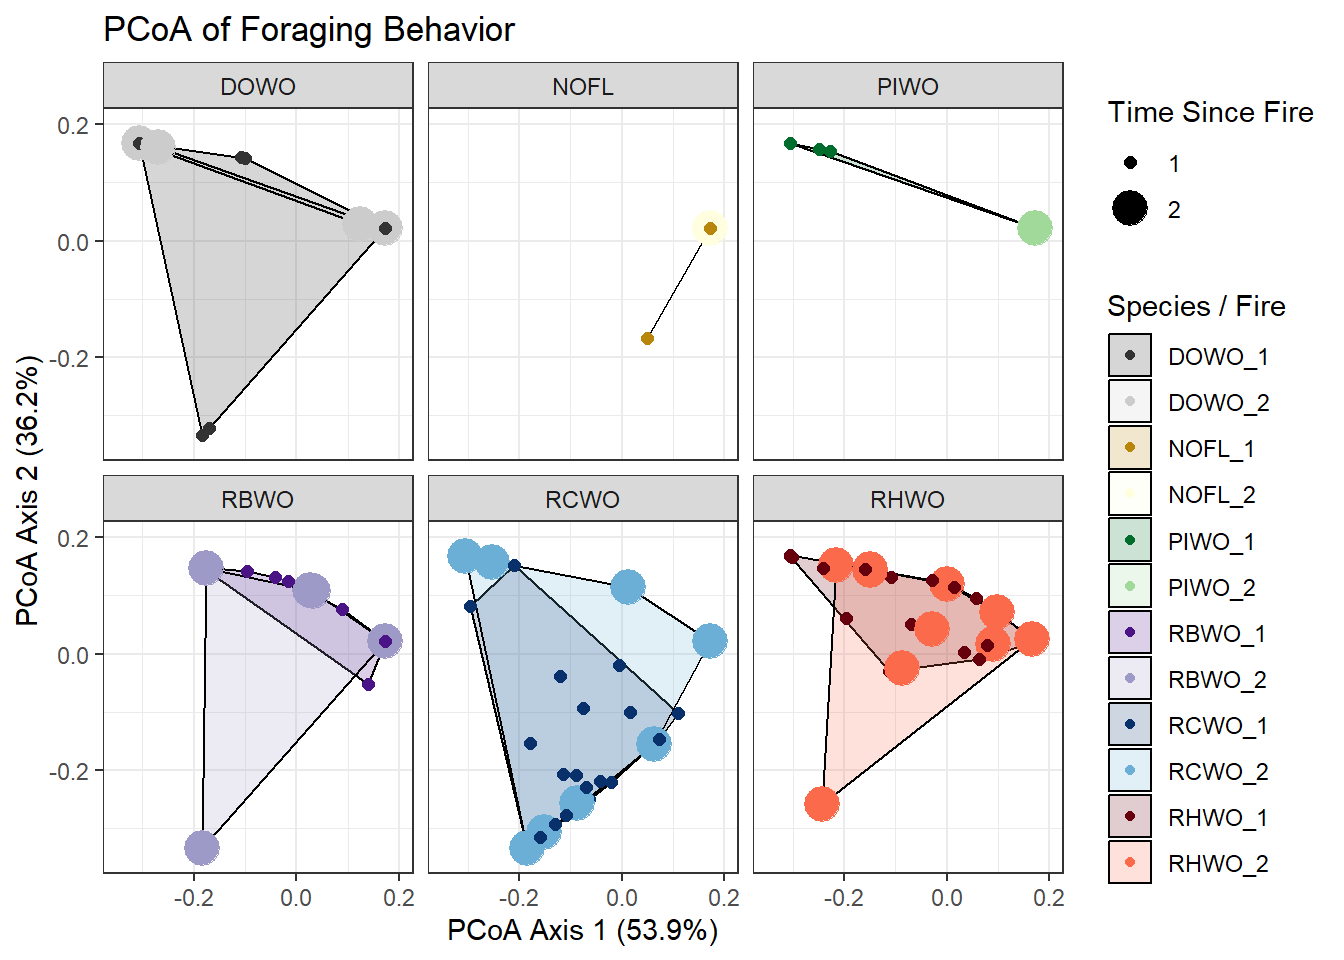
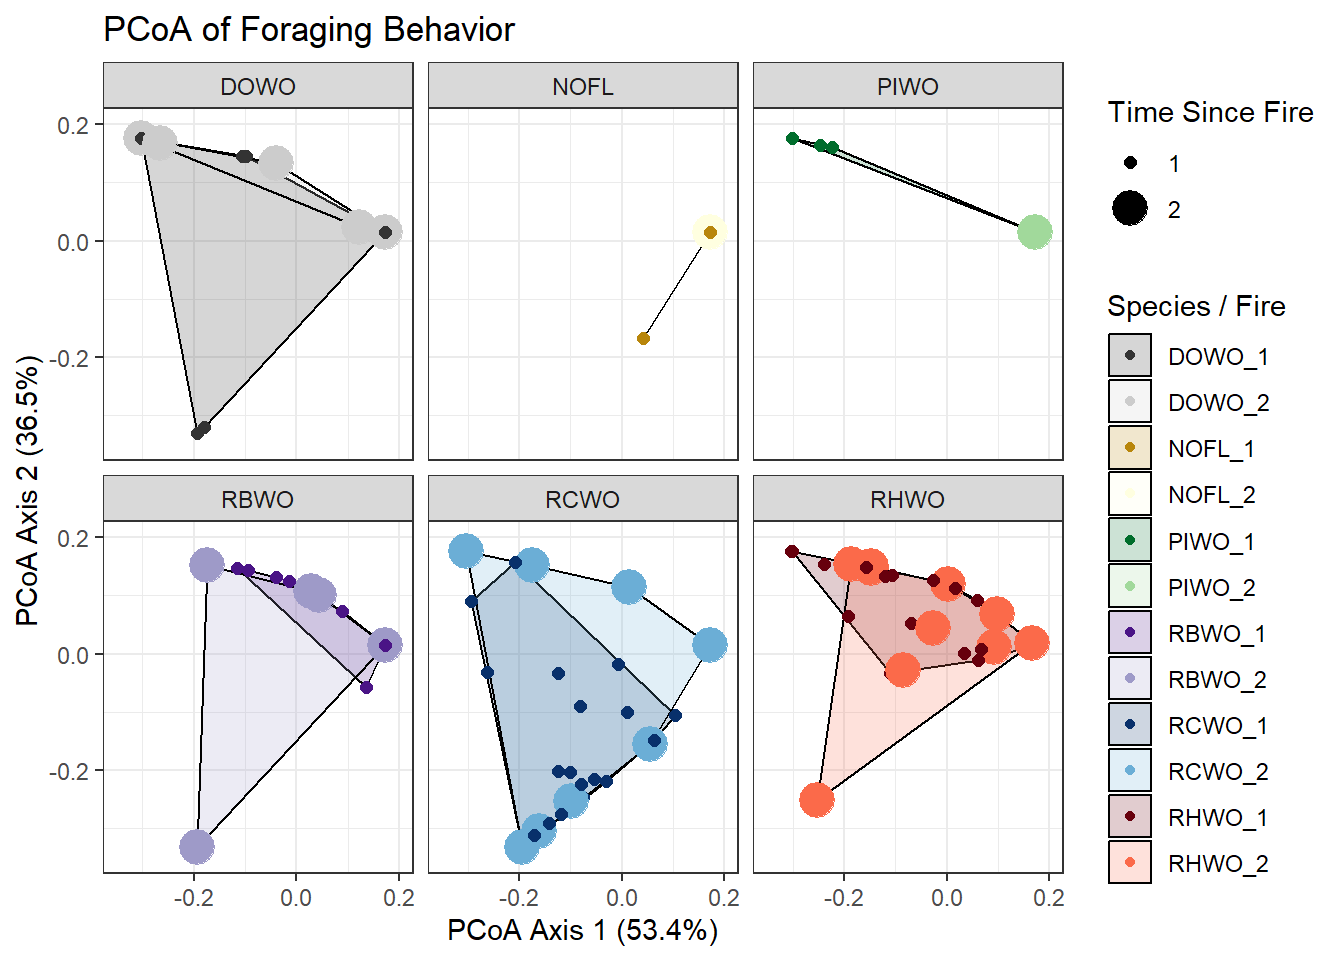
re-worked point count model. updated foraging obs

diff --git a/docs/woodpecker_obs.html b/docs/woodpecker_obs.html
@@ -296,7 +296,7 @@ Table: July observations by species and plot
 <h1>August Observations</h1>
 <div class="cell">
 <div class="cell-output cell-output-stdout">
-<pre><code>Plot(s) with no observations include:  1, 2, 4, 5, 8, 9, 11, 16, 17, 18, 19, 20, 21, 22, 23, 25, 28, 30, 31</code></pre>
+<pre><code>Plot(s) with no observations include:  1, 2, 5, 8, 9, 11, 16, 17, 18, 19, 28, 30, 31</code></pre>
 </div>
 </div>
 <div class="cell">
@@ -307,11 +307,12 @@ Table: August observations by species and plot
 
 |Species |  1|  2|  3|  4|  5|  6|  7|  8|  9| 10| 11| 12| 13| 14| 15| 16| 17| 18| 19| 20| 21| 22| 23| 24| 25| 26| 27| 28| 29| 30| 31| 32|
 |:-------|--:|--:|--:|--:|--:|--:|--:|--:|--:|--:|--:|--:|--:|--:|--:|--:|--:|--:|--:|--:|--:|--:|--:|--:|--:|--:|--:|--:|--:|--:|--:|--:|
-|DOWO    |  0|  0|  0|  0|  0|  0|  0|  0|  0|  0|  0|  1|  0|  0|  1|  0|  0|  0|  0|  0|  0|  0|  0|  0|  0|  0|  0|  0|  0|  0|  0|  0|
-|PIWO    |  0|  0|  0|  0|  0|  0|  0|  0|  0|  0|  0|  0|  0|  0|  0|  0|  0|  0|  0|  0|  0|  0|  0|  0|  0|  0|  1|  0|  0|  0|  0|  0|
-|RBWO    |  0|  0|  0|  0|  0|  0|  0|  0|  0|  0|  0|  2|  0|  1|  0|  0|  0|  0|  0|  0|  0|  0|  0|  1|  0|  0|  0|  0|  0|  0|  0|  0|
-|RCWO    |  0|  0|  1|  0|  0|  0|  1|  0|  0|  1|  0|  1|  2|  0|  1|  0|  0|  0|  0|  0|  0|  0|  0|  1|  0|  0|  1|  0|  0|  0|  0|  1|
-|RHWO    |  0|  0|  1|  0|  0|  1|  0|  0|  0|  0|  0|  0|  0|  0|  2|  0|  0|  0|  0|  0|  0|  0|  0|  0|  0|  1|  1|  0|  1|  0|  0|  0|</code></pre>
+|DOWO    |  0|  0|  0|  0|  0|  0|  0|  0|  0|  0|  0|  1|  0|  0|  1|  0|  0|  0|  0|  0|  1|  0|  2|  0|  0|  0|  0|  0|  0|  0|  0|  0|
+|HAWO    |  0|  0|  0|  0|  0|  0|  0|  0|  0|  0|  0|  0|  0|  0|  0|  0|  0|  0|  0|  0|  0|  0|  0|  0|  1|  0|  0|  0|  0|  0|  0|  0|
+|PIWO    |  0|  0|  0|  0|  0|  0|  0|  0|  0|  0|  0|  0|  0|  0|  0|  0|  0|  0|  0|  2|  1|  0|  0|  0|  0|  0|  1|  0|  0|  0|  0|  0|
+|RBWO    |  0|  0|  0|  0|  0|  0|  0|  0|  0|  0|  0|  2|  0|  1|  0|  0|  0|  0|  0|  1|  1|  1|  1|  1|  0|  0|  0|  0|  0|  0|  0|  0|
+|RCWO    |  0|  0|  1|  0|  0|  0|  1|  0|  0|  1|  0|  1|  2|  0|  1|  0|  0|  0|  0|  0|  3|  1|  0|  1|  0|  0|  1|  0|  0|  0|  0|  1|
+|RHWO    |  0|  0|  1|  1|  0|  1|  0|  0|  0|  0|  0|  0|  0|  0|  2|  0|  0|  0|  0|  0|  0|  2|  3|  0|  1|  1|  1|  0|  1|  0|  0|  0|</code></pre>
 </div>
 </div>
 <p>Now let’s see how this looks in multidimensional space. We use a principle coordinate analysis since we are dealing with categorical variables such as the percentage of time gleaning from live secondary branches compared to hawking. We are also interested in time since fire (1 or more than 1 year (coded as 2)).</p>
